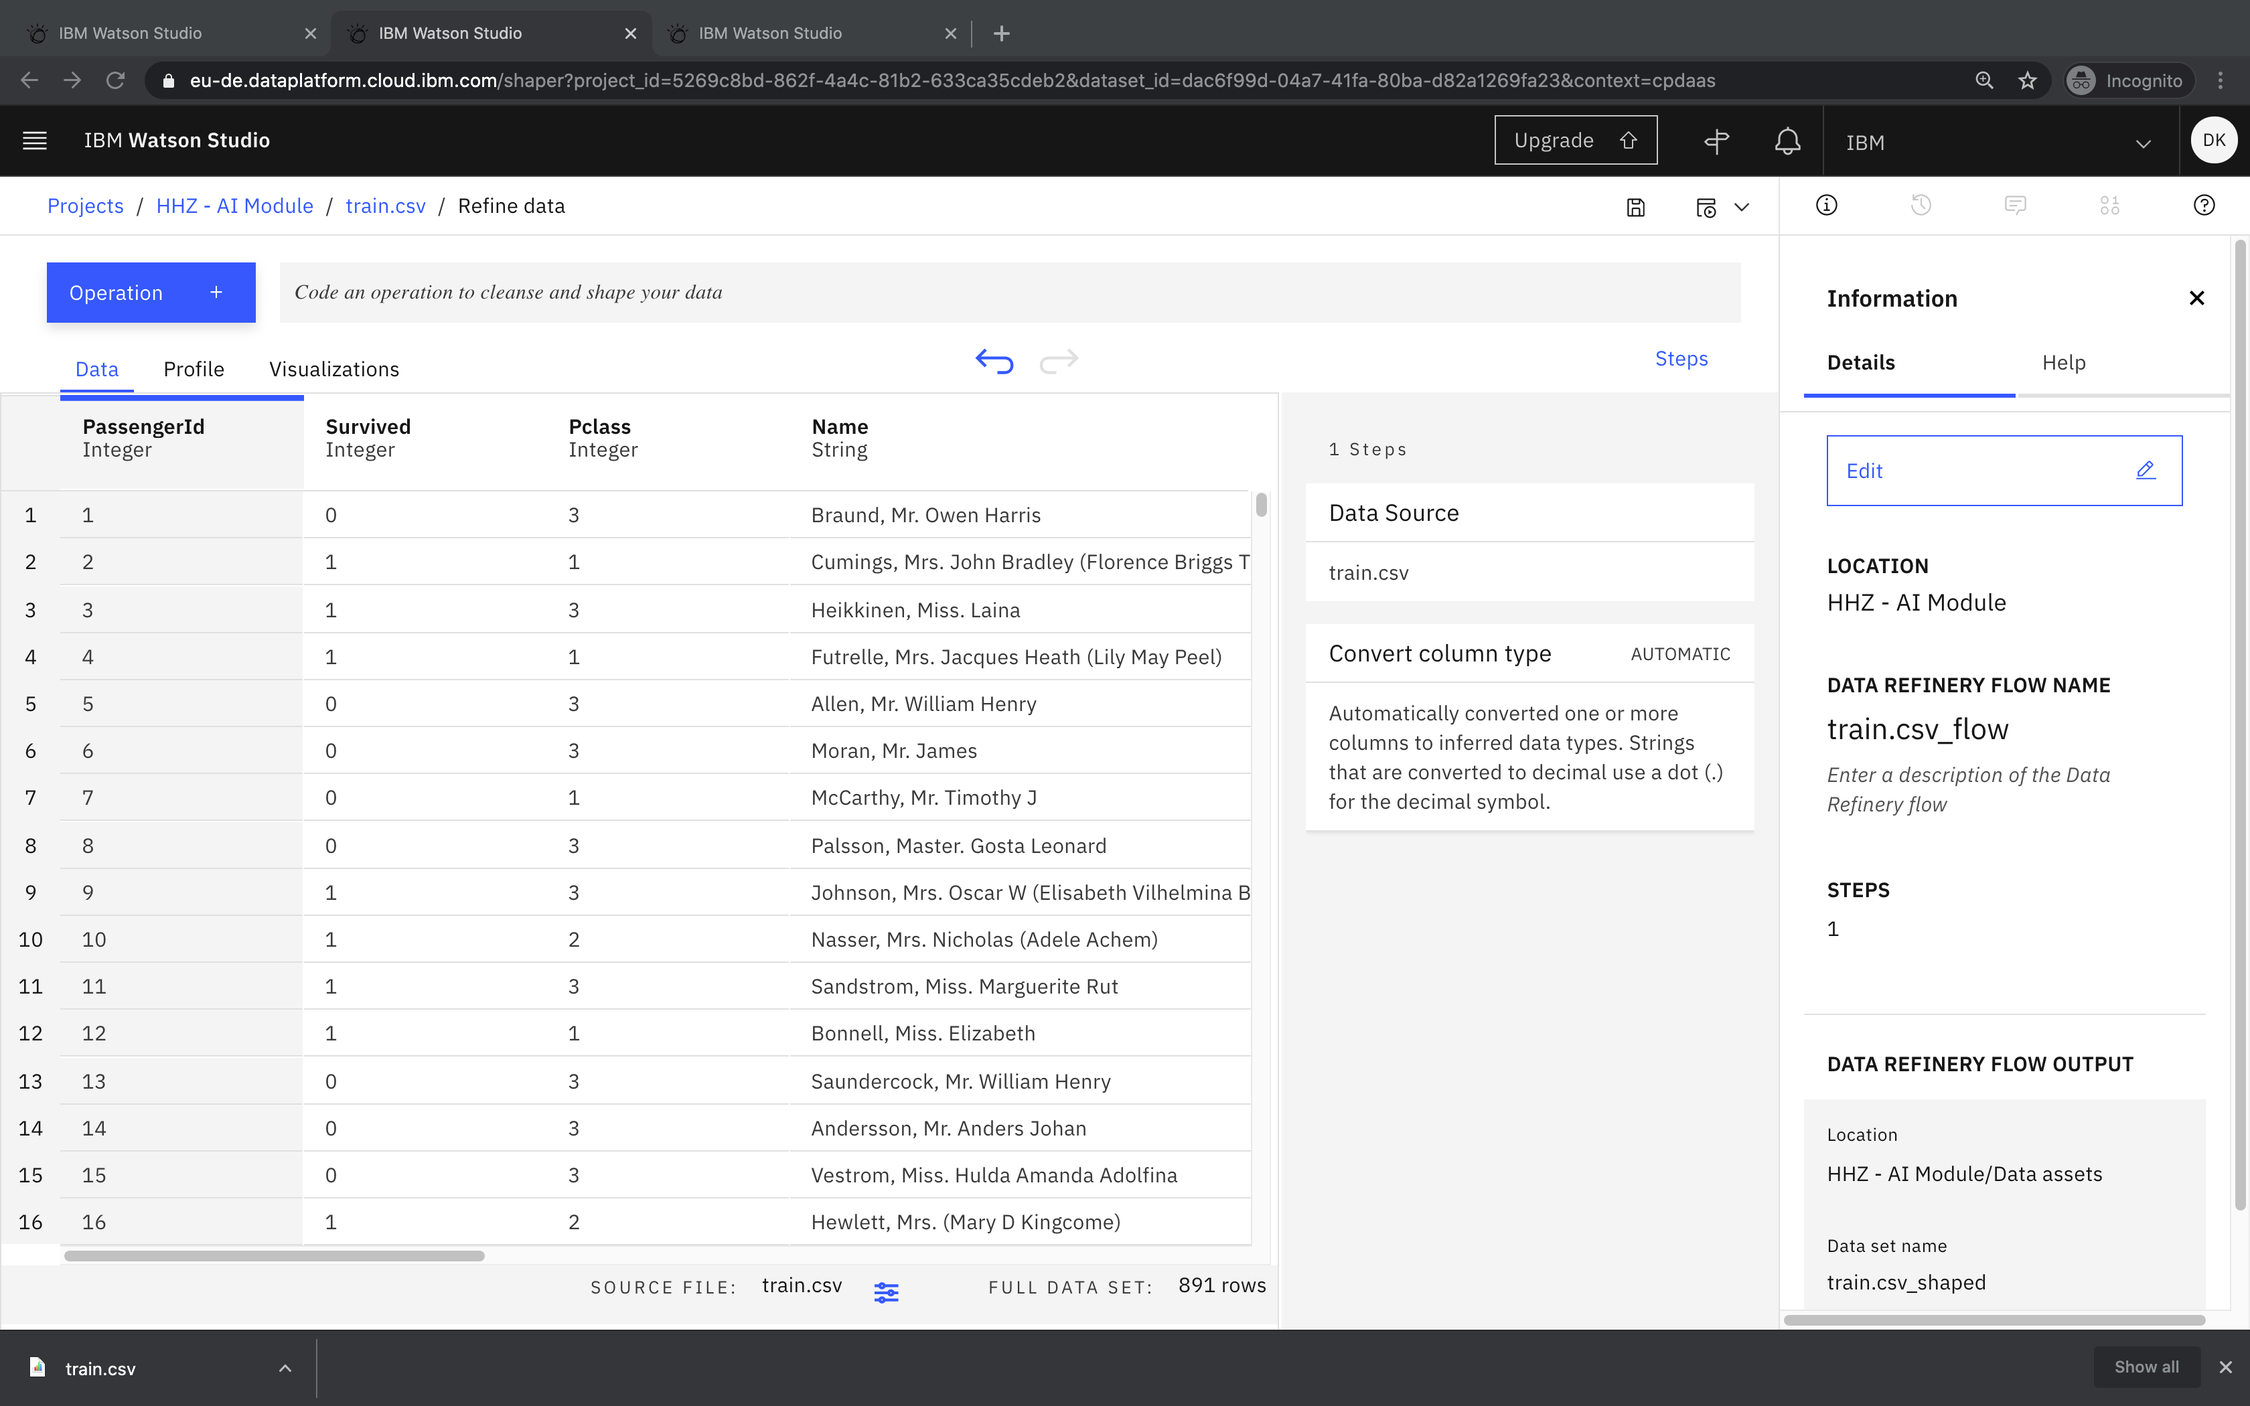
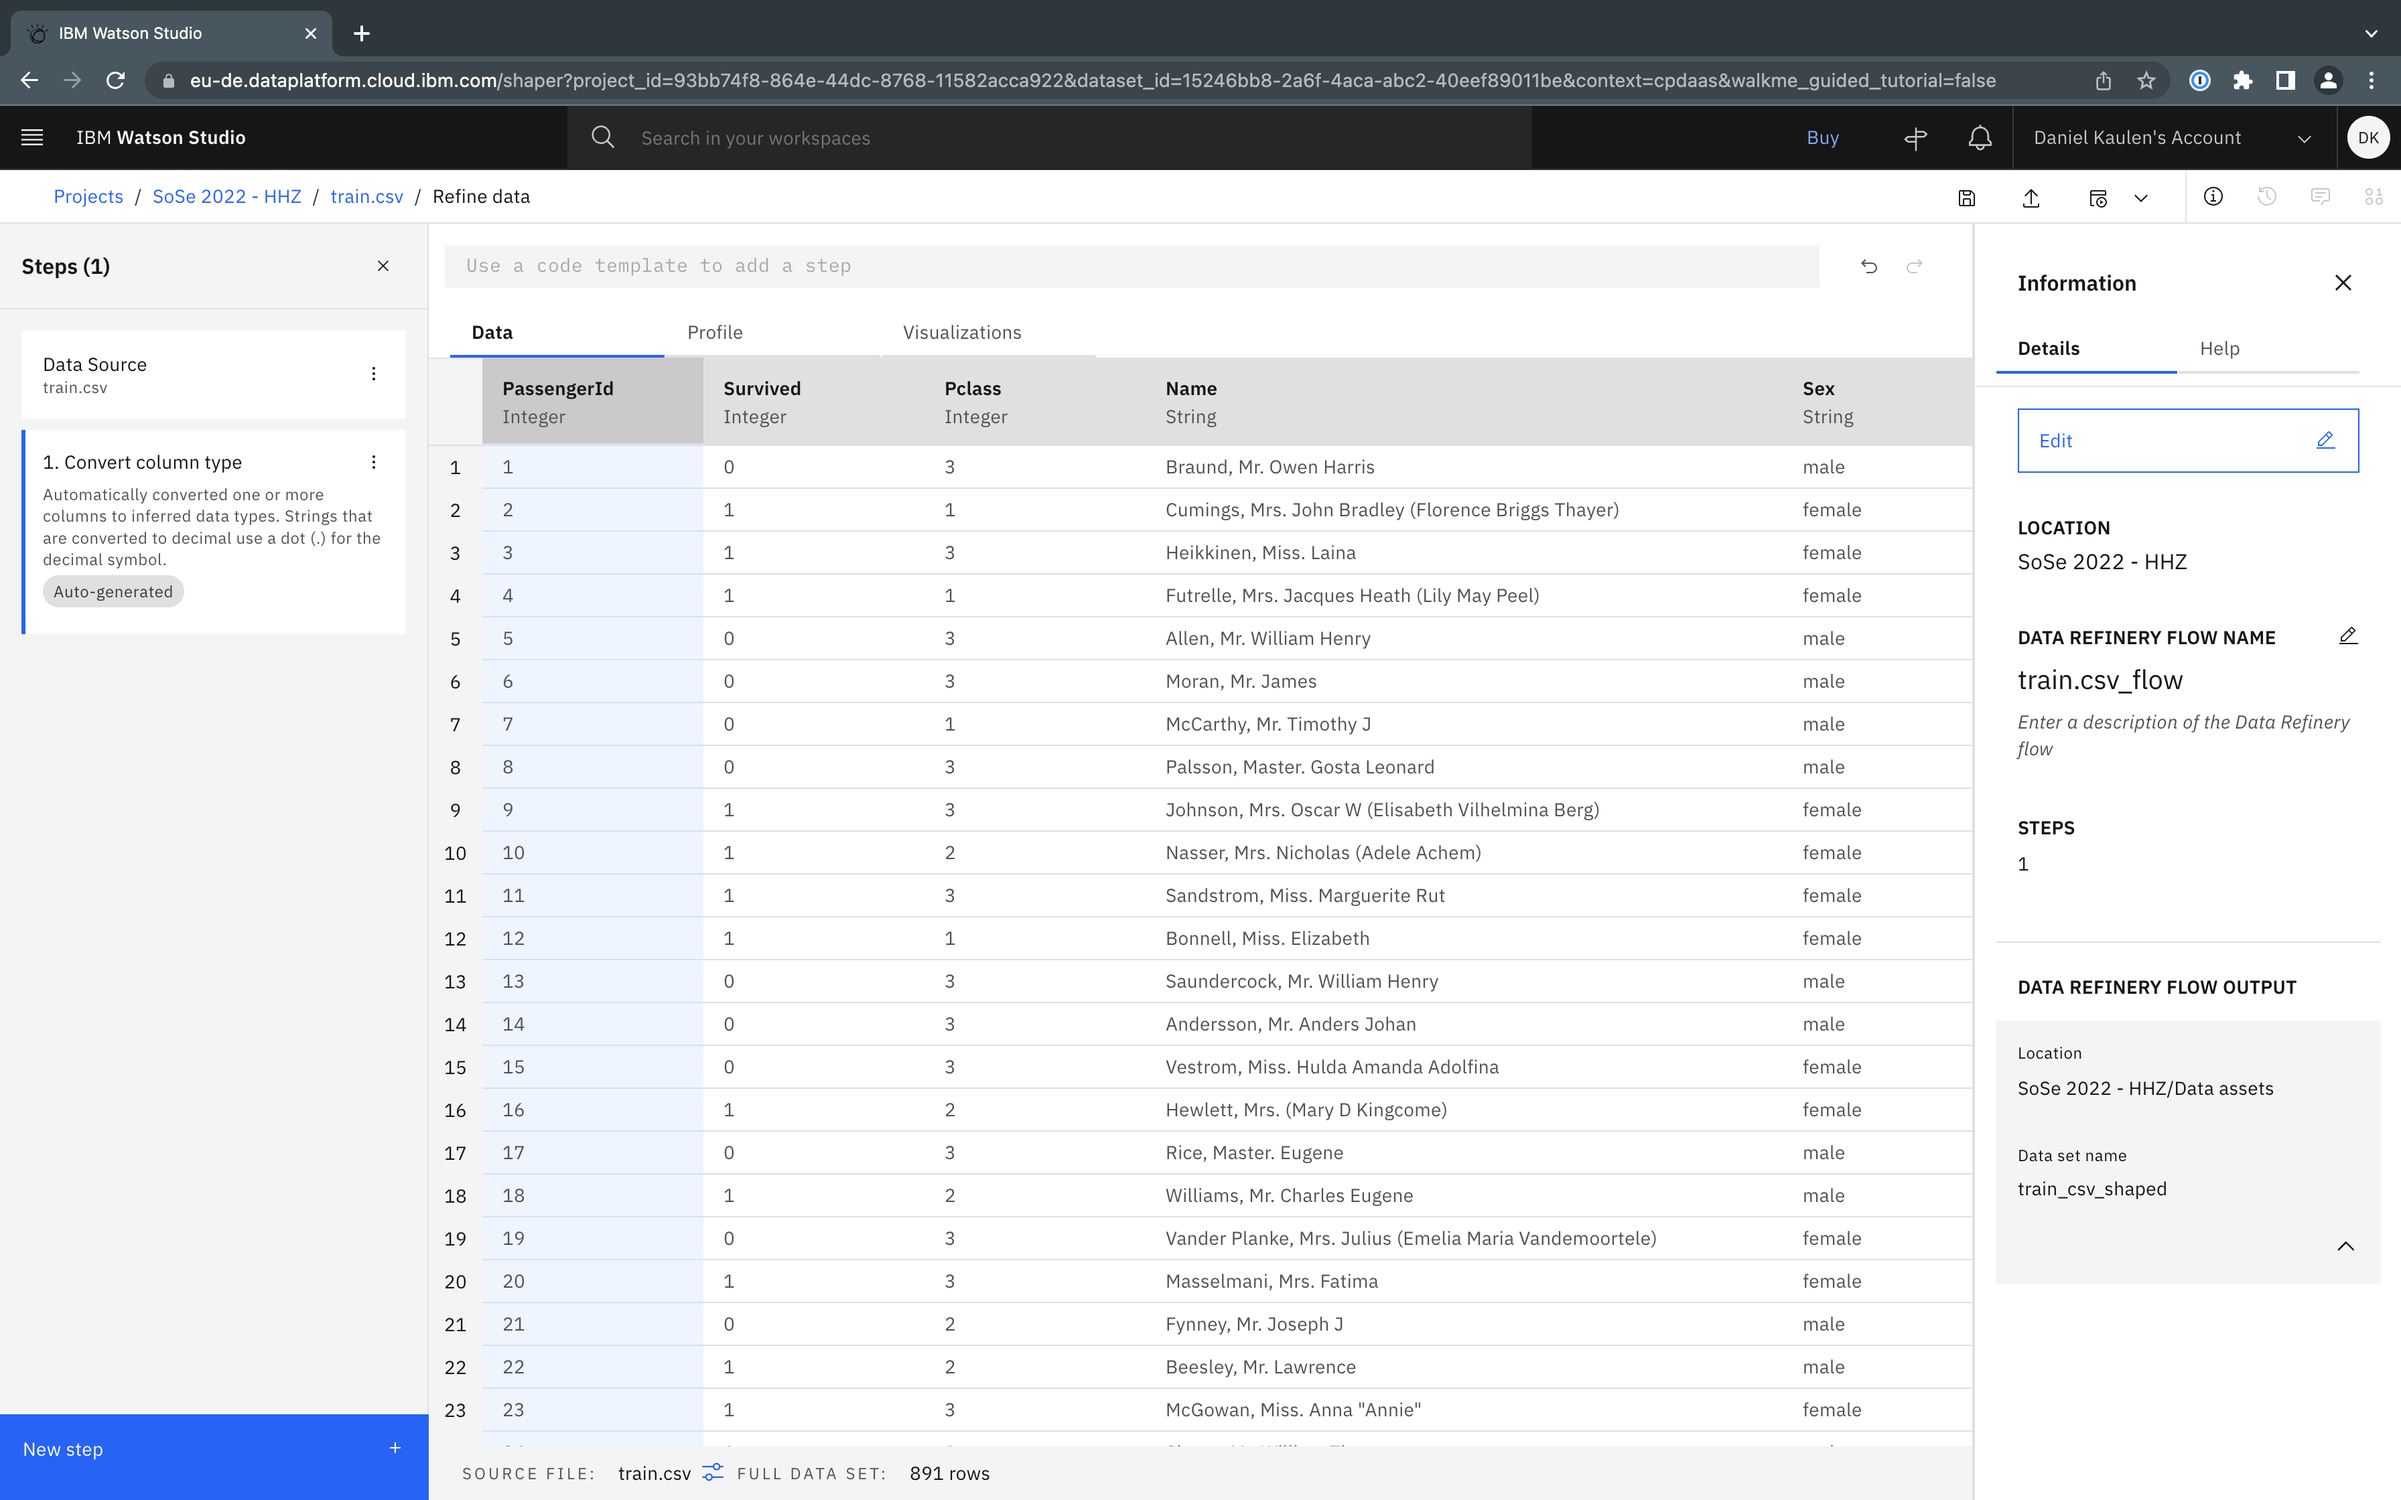
update

diff --git a/Exercise Material/Data Refinery/README.md b/Exercise Material/Data Refinery/README.md
@@ -19,13 +19,13 @@ In your _Watson Studio_ project
   - depending on the size of your dataset you may not operate on the full data set, check the details in the bottom once loading completed for details. The titanic data set only has 891 rows and you can operate on the full data set with Data Refinery:
 ![](./screenshots/04.png)
   - on other (bigger) data sets you may only operate on a sample set of the data (current limit: 10.000), see status bar or documentation for details: 
-![](./screenshots/05.png)
+
 
 Use the 
   - _Data_ tab to cleanse and shape the data
   - _Profile_ tab to validate and find anomalies in the data
   - _Visualizations_ tab to get insights into the data 
-- Note that the individual data transformation steps applied to the source data set are listed on the right hand side
+- Note that the individual data transformation steps applied to the source data set are listed on the left hand side
 
 
 ## Prepare Data with Data Refinery
